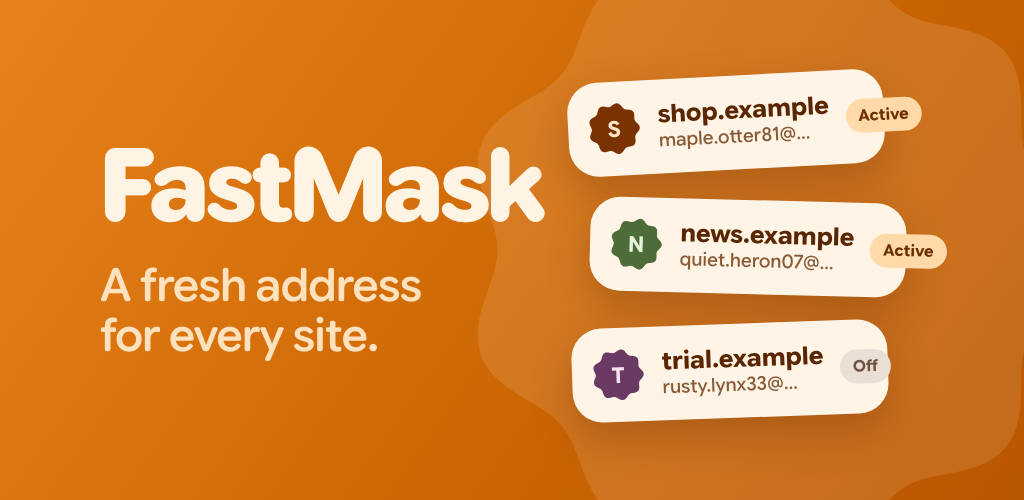
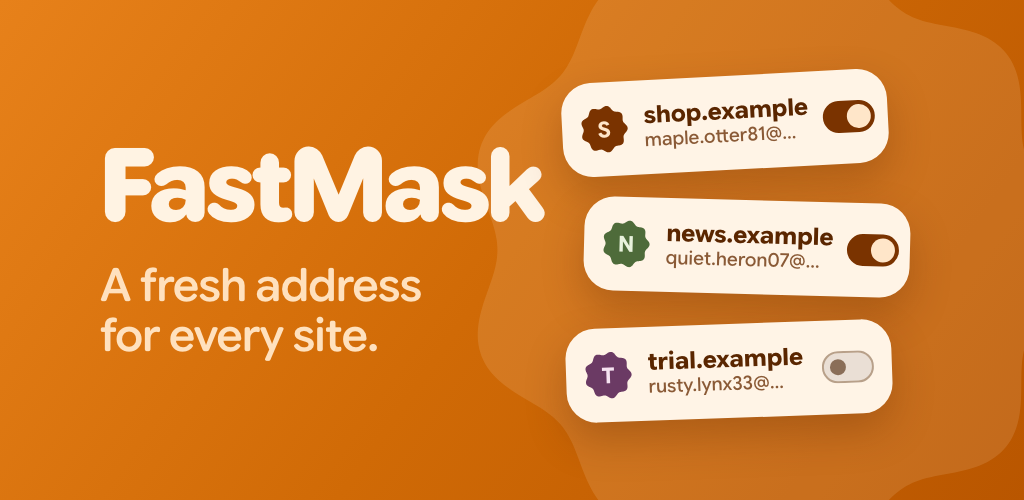
Feature graphic: PL variant, switches instead of overflowing pills
The previous pl-PL graphic on Play was localized; the redesign had replaced it
with the English one. Adds a Polish tagline (?lang=pl) and swaps the text status
pills, which overflowed the mask cards, for Material switches that need no
translation. Uploaded to Play en-US + pl-PL on 2026-11-02.

Claude-Session: https://claude.ai/code/session_0176CU4Y1ViNxbhT5nZ3MZAe

diff --git a/marketing/play/feature-graphic.html b/marketing/play/feature-graphic.html
@@ -21,23 +21,26 @@ html,body{width:1024px;height:500px;overflow:hidden;background:#888}
 .c{background:linear-gradient(125deg,#E7811A 0%,#D06A06 50%,#B95600 100%)}
 .wm{font:780 102px/0.95 "Google Sans Flex";letter-spacing:-3px;color:#FFF3E3;font-variation-settings:"ROND" 100}
 .tag{margin-top:26px;font:560 46px/1.1 "Google Sans Flex";letter-spacing:-.6px;color:#FFE1BE;font-variation-settings:"ROND" 60}
-.row{position:absolute;width:316px;height:94px;border-radius:30px;background:#FFF4E6;display:flex;align-items:center;padding:0 18px;gap:16px;box-shadow:0 18px 40px rgba(90,35,0,.28)}
+.row{position:absolute;width:326px;height:94px;border-radius:30px;background:#FFF4E6;display:flex;align-items:center;padding:0 18px 0 16px;gap:14px;box-shadow:0 18px 40px rgba(90,35,0,.28)}
 .row svg{flex:none}
-.d{font:720 25px/1.15 "Google Sans Flex";color:#5A2600}
+.d{font:720 24px/1.15 "Google Sans Flex";color:#5A2600}
 .a{font:500 19px/1.2 "Google Sans Flex";color:#8A5A36}
-.pill{margin-left:auto;font:700 16px/1 "Google Sans Flex";border-radius:99px;padding:9px 13px}
+.sw{margin-left:auto;flex:none;width:52px;height:32px;border-radius:16px;position:relative;background:#7A3300}
+.sw i{position:absolute;top:4px;left:24px;width:24px;height:24px;border-radius:50%;background:#FFE6C9}
+.sw.off{background:#EADFD5;box-shadow:inset 0 0 0 2px #B8A089}
+.sw.off i{left:8px;top:8px;width:16px;height:16px;background:#8A6E58}
 </style></head><body><div class="c">
 <svg class="art" width="1024" height="500"><path data-cookie="770,250,290,9,0.06,0" fill="#FFE6C9" opacity=".14"/></svg>
-<div class="copy"><div class="wm">FastMask</div><div class="tag">A fresh address<br>for every site.</div></div>
-<div class="row" style="left:568px;top:76px;transform:rotate(-3deg)">
- <svg width="56" height="56"><path data-cookie="28,28,24,9,0.07,0" fill="#7A3300"/><text x="28" y="36" text-anchor="middle" font-family="Google Sans Flex" font-weight="700" font-size="22" fill="#FFE6C9">S</text></svg>
- <div><div class="d">shop.example</div><div class="a">maple.otter81@…</div></div><span class="pill" style="background:#FFD9A8;color:#6A2E00">Active</span></div>
-<div class="row" style="left:590px;top:200px;transform:rotate(1.5deg)">
- <svg width="56" height="56"><path data-cookie="28,28,24,9,0.07,0" fill="#4E6B3A"/><text x="28" y="36" text-anchor="middle" font-family="Google Sans Flex" font-weight="700" font-size="22" fill="#E8F2DC">N</text></svg>
- <div><div class="d">news.example</div><div class="a">quiet.heron07@…</div></div><span class="pill" style="background:#FFD9A8;color:#6A2E00">Active</span></div>
-<div class="row" style="left:572px;top:324px;transform:rotate(-2deg)">
- <svg width="56" height="56"><path data-cookie="28,28,24,9,0.07,0" fill="#6B3A64"/><text x="28" y="36" text-anchor="middle" font-family="Google Sans Flex" font-weight="700" font-size="22" fill="#F6E3F1">T</text></svg>
- <div><div class="d">trial.example</div><div class="a">rusty.lynx33@…</div></div><span class="pill" style="background:#EADFD5;color:#6E5442">Off</span></div>
+<div class="copy"><div class="wm">FastMask</div><div class="tag" data-pl="Nowy adres<br>dla każdej strony.">A fresh address<br>for every site.</div></div>
+<div class="row" style="left:562px;top:76px;transform:rotate(-3deg)">
+ <svg width="52" height="52"><path data-cookie="26,26,22,9,0.07,0" fill="#7A3300"/><text x="26" y="34" text-anchor="middle" font-family="Google Sans Flex" font-weight="700" font-size="22" fill="#FFE6C9">S</text></svg>
+ <div><div class="d">shop.example</div><div class="a">maple.otter81@…</div></div><span class="sw"><i></i></span></div>
+<div class="row" style="left:584px;top:200px;transform:rotate(1.5deg)">
+ <svg width="52" height="52"><path data-cookie="26,26,22,9,0.07,0" fill="#4E6B3A"/><text x="26" y="34" text-anchor="middle" font-family="Google Sans Flex" font-weight="700" font-size="22" fill="#E8F2DC">N</text></svg>
+ <div><div class="d">news.example</div><div class="a">quiet.heron07@…</div></div><span class="sw"><i></i></span></div>
+<div class="row" style="left:566px;top:324px;transform:rotate(-2deg)">
+ <svg width="52" height="52"><path data-cookie="26,26,22,9,0.07,0" fill="#6B3A64"/><text x="26" y="34" text-anchor="middle" font-family="Google Sans Flex" font-weight="700" font-size="22" fill="#F6E3F1">T</text></svg>
+ <div><div class="d">trial.example</div><div class="a">rusty.lynx33@…</div></div><span class="sw off"><i></i></span></div>
 </div><script>
 // Cookie / scallop shapes (MaterialShapes-like) drawn as polar curves: data-cookie="cx,cy,R,lobes,amp,rot"
 function cookie(cx, cy, R, n, amp, rot = 0) {
